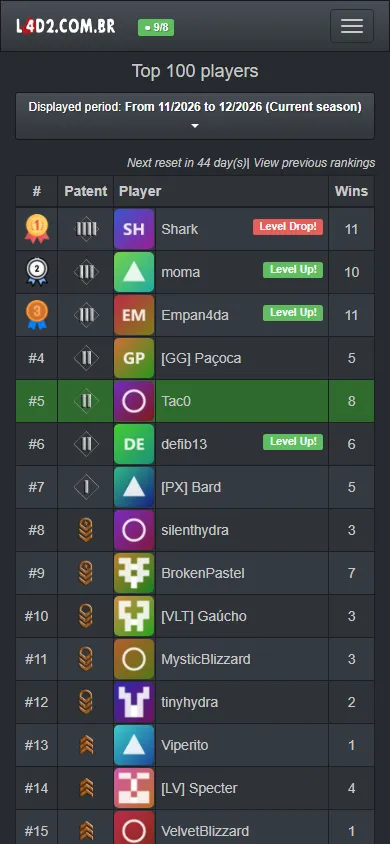
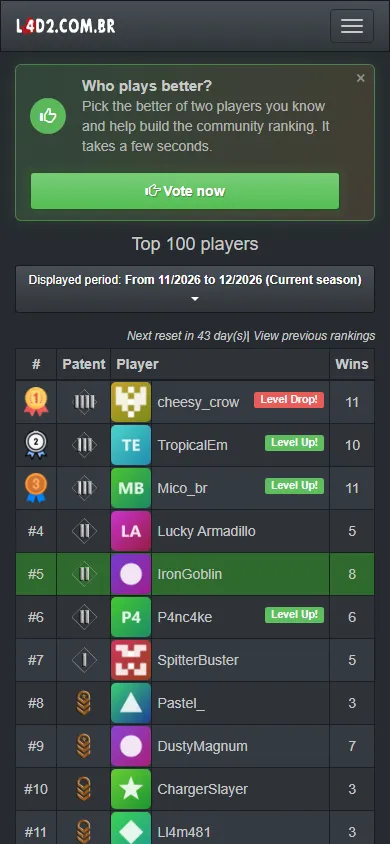
Make voting in the community ranking stand out: a box inviting players to vote with a large Vote now button above the community ranking and, closable for 7 days, above the ranking on the home page; show at most 100 players in the community ranking, configurable; explain every community ranking setti

diff --git a/tests/L4D2PlayStats.Hub.Tests/Community/CommunityRankingServiceTests.cs b/tests/L4D2PlayStats.Hub.Tests/Community/CommunityRankingServiceTests.cs
@@ -199,6 +199,30 @@ public class CommunityRankingServiceTests
     }
 
     [TestMethod]
+    public async Task TheRankingShowsAtMostTheMaximumNumberOfPlayers()
+    {
+        using var community = new CommunityTestHub();
+
+        await community.StartAsync(new CommunityRankingSettings { MinimumMatchesToVote = 1, MinimumComparisonsToBeListed = 1, VotesPerDay = EnoughVotes });
+        await community.AnswerEverythingAsync(community.Voter, CommunityVoteOutcome.Left);
+
+        var everyone = await community.RankingAsync();
+
+        await community.SaveAsync(new CommunityRankingSettings { MinimumMatchesToVote = 1, MinimumComparisonsToBeListed = 1, MaximumPlayersListed = 3 });
+
+        var limited = await community.RankingAsync();
+
+        await community.SaveAsync(new CommunityRankingSettings { MinimumMatchesToVote = 1, MinimumComparisonsToBeListed = 1, MaximumPlayersListed = 0 });
+
+        var unlimited = await community.RankingAsync();
+
+        Assert.HasCount(7, everyone);
+        CollectionAssert.AreEqual(everyone.Take(3).Select(entry => entry.CommunityId).ToList(), limited.Select(entry => entry.CommunityId).ToList());
+        Assert.HasCount(7, unlimited);
+        Assert.AreEqual(100, new CommunityRankingSettings().MaximumPlayersListed);
+    }
+
+    [TestMethod]
     public async Task PlayersWithTooFewMatchesAreNotListed()
     {
         using var community = new CommunityTestHub();

diff --git a/tests/L4D2PlayStats.Hub.Tests/Community/CommunityWebTests.cs b/tests/L4D2PlayStats.Hub.Tests/Community/CommunityWebTests.cs
@@ -431,6 +431,7 @@ public class CommunityWebTests
             ["VotesPerDay"] = "0",
             ["MinimumMatchesToBeCandidate"] = "4",
             ["CandidatePlayedWithinDays"] = "90",
+            ["MaximumPlayersListed"] = "-1",
             ["MinimumComparisonsToBeListed"] = "-3",
             ["KFactor"] = "999",
             ["InitialRating"] = "1200"
@@ -445,6 +446,7 @@ public class CommunityWebTests
         Assert.AreEqual(1, settings.VotesPerDay);
         Assert.AreEqual(4, settings.MinimumMatchesToBeCandidate);
         Assert.AreEqual(90, settings.CandidatePlayedWithinDays);
+        Assert.AreEqual(0, settings.MaximumPlayersListed);
         Assert.Contains("name=\"CandidatePlayedWithinDays\" type=\"number\" min=\"0\" value=\"90\"", page);
         Assert.AreEqual(0, settings.MinimumComparisonsToBeListed);
         Assert.AreEqual(200, settings.KFactor);
@@ -460,6 +462,7 @@ public class CommunityWebTests
         Assert.AreEqual(20, settings.VotesPerDay);
         Assert.AreEqual(1, settings.MinimumMatchesToBeCandidate);
         Assert.AreEqual(0, settings.CandidatePlayedWithinDays);
+        Assert.AreEqual(100, settings.MaximumPlayersListed);
         Assert.AreEqual(5, settings.MinimumComparisonsToBeListed);
         Assert.AreEqual(32, settings.KFactor);
         Assert.AreEqual(1500, settings.InitialRating);

diff --git a/src/L4D2PlayStats.Hub.Core/Modules/Community/Settings/CommunityRankingSettings.cs b/src/L4D2PlayStats.Hub.Core/Modules/Community/Settings/CommunityRankingSettings.cs
@@ -7,6 +7,7 @@ public class CommunityRankingSettings
     public int MinimumMatchesToBeCandidate { get; set; } = AppConsts.DefaultCommunityMinimumMatchesToBeCandidate;
     public int CandidatePlayedWithinDays { get; set; } = AppConsts.DefaultCommunityCandidatePlayedWithinDays;
     public int MinimumComparisonsToBeListed { get; set; } = AppConsts.DefaultCommunityMinimumComparisonsToBeListed;
+    public int MaximumPlayersListed { get; set; } = AppConsts.DefaultCommunityMaximumPlayersListed;
     public int KFactor { get; set; } = AppConsts.DefaultCommunityKFactor;
     public int InitialRating { get; set; } = AppConsts.DefaultCommunityInitialRating;
 
@@ -17,6 +18,7 @@ public class CommunityRankingSettings
         MinimumMatchesToBeCandidate = Math.Max(0, MinimumMatchesToBeCandidate);
         CandidatePlayedWithinDays = Math.Max(0, CandidatePlayedWithinDays);
         MinimumComparisonsToBeListed = Math.Max(0, MinimumComparisonsToBeListed);
+        MaximumPlayersListed = Math.Max(0, MaximumPlayersListed);
         KFactor = Math.Clamp(KFactor, AppConsts.CommunityMinKFactor, AppConsts.CommunityMaxKFactor);
         InitialRating = Math.Max(0, InitialRating);
     }

diff --git a/src/L4D2PlayStats.Hub.Core/Modules/Community/Services/CommunityRankingService.cs b/src/L4D2PlayStats.Hub.Core/Modules/Community/Services/CommunityRankingService.cs
@@ -27,7 +27,8 @@ public class CommunityRankingService(
             .ThenBy(r => r.CommunityId)
             .ToListAsync(cancellationToken);
 
-        var ratings = rated.Where(r => eligible.Contains(r.CommunityId)).ToList();
+        var listed = rated.Where(r => eligible.Contains(r.CommunityId));
+        var ratings = (settings.MaximumPlayersListed > 0 ? listed.Take(settings.MaximumPlayersListed) : listed).ToList();
 
         var names = await playerService.NamesAsync([.. ratings.Select(r => r.CommunityId)], cancellationToken);
 

diff --git a/src/L4D2PlayStats.Hub.Core/AppConsts.cs b/src/L4D2PlayStats.Hub.Core/AppConsts.cs
@@ -62,6 +62,7 @@ public static class AppConsts
     public const int DefaultCommunityMinimumMatchesToBeCandidate = 1;
     public const int DefaultCommunityCandidatePlayedWithinDays = 0;
     public const int DefaultCommunityMinimumComparisonsToBeListed = 5;
+    public const int DefaultCommunityMaximumPlayersListed = 100;
     public const int DefaultCommunityKFactor = 32;
     public const int DefaultCommunityInitialRating = 1500;
     public const int CommunityMinVotesPerDay = 1;

diff --git a/src/L4D2PlayStats.Hub.Web/AppConsts.cs b/src/L4D2PlayStats.Hub.Web/AppConsts.cs
@@ -110,6 +110,7 @@ public static partial class AppConsts
     public const string HtmxRequestHeader = "HX-Request";
     public const string CommunityBallotElement = "community-ballot";
     public const string CommunityVotePage = "/community/vote";
+    public const int VoteInviteHiddenDays = 7;
     public const int RemoteCommandLogSize = 100;
     public const int PlayerConnectionCleanupIntervalInHours = 24;
     public const string SteamConnectUrl = "steam://connect/";

diff --git a/docs/manual/community-ranking.es.md b/docs/manual/community-ranking.es.md
@@ -30,7 +30,7 @@ El ranking de la comunidad es un segundo ranking, construido a partir de lo que 
 | Comparaciones | Cuántas veces se juzgó al jugador frente a otro jugador. |
 | Victorias, Empates, Derrotas | Cuántas comparaciones ganó, empató y perdió el jugador. |
 
-Solo aparecen los jugadores con suficientes comparaciones: 5 de forma predeterminada. El jugador también tiene que haber jugado el mínimo de partidas para ser comparado, 1 de forma predeterminada. Los dos mínimos están escritos debajo de la tabla. **Votar** abre la página de votación.
+Solo aparecen los jugadores con suficientes comparaciones: 5 de forma predeterminada. El jugador también tiene que haber jugado el mínimo de partidas para ser comparado, 1 de forma predeterminada. Los dos mínimos están escritos debajo de la tabla, y la lista se detiene en los primeros 100 jugadores de forma predeterminada. **Votar ahora**, en el recuadro encima de la tabla, abre la página de votación. El mismo recuadro aparece encima del ranking de estadísticas en la página de inicio; allí el jugador puede cerrarlo, y vuelve después de 7 días.
 
 ## Votar
 
@@ -87,6 +87,8 @@ La puntuación es permanente. No vuelve a empezar con la temporada.
 
 ![Los ajustes del ranking de la comunidad](../images/es/admin-community.webp)
 
+Cada campo tiene un **?** junto a su nombre: al pasar el ratón muestra una explicación corta, y los campos que necesitan más muestran una ventana con los detalles al hacer clic.
+
 | Ajuste | Qué hace | Predeterminado |
 |---|---|---|
 | Mínimo de partidas para votar | Partidas que un jugador tiene que haber jugado, en todas las temporadas, para votar. | 10 |
@@ -94,6 +96,7 @@ La puntuación es permanente. No vuelve a empezar con la temporada.
 | Mínimo de partidas para ser comparado y aparecer en la lista | Partidas que un jugador tiene que haber jugado, en todas las temporadas, para que se ofrezca para comparar y para aparecer en el ranking de la comunidad. | 1 |
 | Máximo de días desde la última partida para ser comparado | Un jugador cuya última partida es más antigua que esto deja de ofrecerse para comparar, pero sigue en el ranking de la comunidad. 0 es sin límite. | 0 |
 | Mínimo de comparaciones para aparecer en la lista | Comparaciones que un jugador necesita para aparecer en el ranking de la comunidad. | 5 |
+| Máximo de jugadores en el ranking | El ranking de la comunidad muestra como máximo esta cantidad de jugadores, de la puntuación más alta hacia abajo. 0 muestra a todos. | 100 |
 | Factor K de Elo | Cuánto mueve las puntuaciones un voto, de 1 a 200. | 32 |
 | Puntuación inicial | La puntuación de un jugador que nunca fue comparado. | 1500 |
 

diff --git a/docs/manual/community-ranking.pt.md b/docs/manual/community-ranking.pt.md
@@ -30,7 +30,7 @@ O ranking da comunidade é um segundo ranking, formado pelo que os jogadores ach
 | Comparações | Quantas vezes o jogador foi avaliado contra outro jogador. |
 | Vitórias, Empates, Derrotas | Quantas comparações o jogador ganhou, empatou e perdeu. |
 
-Só aparecem na lista os jogadores com comparações suficientes: 5 por padrão. O jogador também precisa ter jogado o mínimo de partidas para ser comparado, 1 por padrão. Os dois mínimos aparecem embaixo da tabela. **Votar** abre a página de votação.
+Só aparecem na lista os jogadores com comparações suficientes: 5 por padrão. O jogador também precisa ter jogado o mínimo de partidas para ser comparado, 1 por padrão. Os dois mínimos aparecem embaixo da tabela, e a lista para nos 100 primeiros jogadores por padrão. **Votar agora**, no quadro acima da tabela, abre a página de votação. O mesmo quadro aparece acima do ranking de estatísticas na página inicial; lá o jogador pode fechá-lo, e ele volta depois de 7 dias.
 
 ## Votando
 
@@ -87,6 +87,8 @@ A pontuação é permanente. Ela não recomeça com a temporada.
 
 ![As configurações do ranking da comunidade](../images/pt/admin-community.webp)
 
+Cada campo tem um **?** ao lado do nome: passar o mouse mostra uma explicação curta, e os campos que precisam de mais mostram uma janela com os detalhes ao clicar.
+
 | Configuração | O que faz | Padrão |
 |---|---|---|
 | Mínimo de partidas para votar | Partidas que um jogador precisa ter jogado, em todas as temporadas, para votar. | 10 |
@@ -94,6 +96,7 @@ A pontuação é permanente. Ela não recomeça com a temporada.
 | Mínimo de partidas para ser comparado e aparecer na lista | Partidas que um jogador precisa ter jogado, em todas as temporadas, para ser oferecido para comparação e para aparecer no ranking da comunidade. | 1 |
 | Máximo de dias desde a última partida para ser comparado | Um jogador cuja última partida é mais antiga que isso deixa de ser oferecido para comparação, mas continua no ranking da comunidade. 0 é sem limite. | 0 |
 | Mínimo de comparações para aparecer na lista | Comparações que um jogador precisa para aparecer no ranking da comunidade. | 5 |
+| Máximo de jogadores no ranking | O ranking da comunidade mostra no máximo esse número de jogadores, da maior pontuação para baixo. 0 mostra todos. | 100 |
 | Fator K do Elo | Quanto um voto mexe nas pontuações, de 1 a 200. | 32 |
 | Pontuação inicial | A pontuação de um jogador que nunca foi comparado. | 1500 |
 

diff --git a/docs/manual/community-ranking.md b/docs/manual/community-ranking.md
@@ -30,7 +30,7 @@ The community ranking is a second ranking, built from what the players think of 
 | Comparisons | How many times the player was judged against another player. |
 | Wins, Draws, Losses | How many comparisons the player won, drew and lost. |
 
-Only players with enough comparisons are listed: 5 by default. A player must also have played the minimum number of matches to be compared, 1 by default. Both minimums are written under the table. **Vote** opens the voting page.
+Only players with enough comparisons are listed: 5 by default. A player must also have played the minimum number of matches to be compared, 1 by default. Both minimums are written under the table, and the list stops at the first 100 players by default. **Vote now**, in the box above the table, opens the voting page. The same box appears above the statistics ranking on the home page; a player can close it there, and it comes back after 7 days.
 
 ## Voting
 
@@ -87,6 +87,8 @@ The rating is permanent. It does not start again with the season.
 
 ![The community ranking settings](../images/en/admin-community.webp)
 
+Each field has a **?** next to its name: hovering it shows a short explanation, and the fields that need more show a window with the details when clicked.
+
 | Setting | What it does | Default |
 |---|---|---|
 | Minimum matches to vote | Matches a player must have played, over all seasons, to vote. | 10 |
@@ -94,6 +96,7 @@ The rating is permanent. It does not start again with the season.
 | Minimum matches to be compared and listed | Matches a player must have played, over all seasons, to be offered for comparison and to appear in the community ranking. | 1 |
 | Maximum days since the last match to be compared | A player whose last match is older than this is no longer offered for comparison, but stays in the community ranking. 0 means no limit. | 0 |
 | Minimum comparisons to be listed | Comparisons a player needs to appear in the community ranking. | 5 |
+| Maximum players in the ranking | The community ranking shows at most this many players, from the highest rating down. 0 shows everyone. | 100 |
 | Elo K factor | How much one vote moves the ratings, from 1 to 200. | 32 |
 | Initial rating | The rating of a player who was never compared. | 1500 |
 
